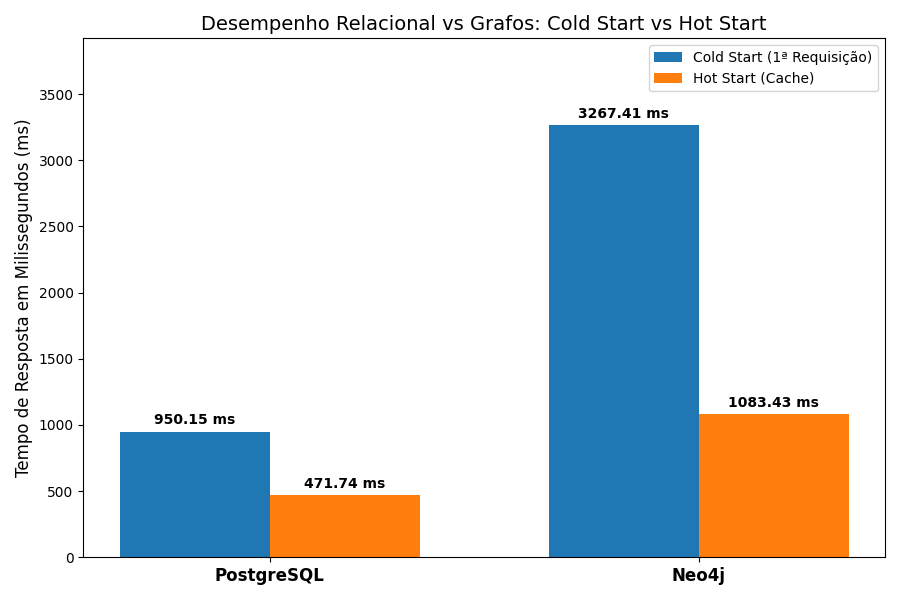
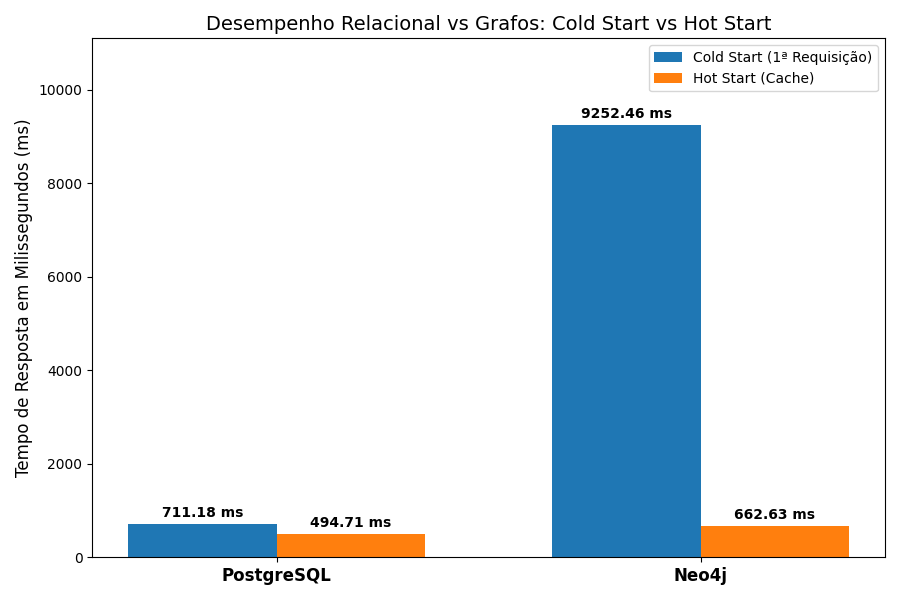
feat: conclusao dos testes experimentais e geracao dos tres graficos de desempenho

diff --git a/api/main.py b/api/main.py
@@ -37,21 +37,17 @@ def recomendar_postgres(user_id: int):
     with get_postgres_connection() as conn:
         result = conn.execute(query, {"user_id": user_id}).fetchall()
 
-        end_time = time.time()
+    end_time = time.time()
 
-        filmes_recomendados = [row[0] for row in result]
+    filmes_recomendados = [row[0] for row in result]
+    tempo_ms = round((end_time - start_time) * 1000, 2)
 
-        tempo_ms = round((end_time - start_time) * 1000, 2)
-
-        return {
-            "usuario_alvo": user_id,
-            "motor": "PostgreSQL",
-            "tempo_execucao_ms": tempo_ms,
-            "recomendacoes": filmes_recomendados,
-        }
-
-
-# nós ficam entre parenteses(u:User) e relacionamentos ficam entre colchetes-r[r:RATED]->
+    return {
+        "usuario_alvo": user_id,
+        "motor": "PostgreSQL",
+        "tempo_execucao_ms": tempo_ms,
+        "recomendacoes": filmes_recomendados,
+    }
 
 
 @app.get("/recomendar/neo4j/{user_id}")
@@ -77,32 +73,26 @@ def recomendar_neo4j(user_id: int):
         result = session.run(query, user_id=user_id)
         filmes_recomendados = [record["title"] for record in result]
 
-        end_time = time.time()
+    end_time = time.time()
 
-        tempo_ms = round((end_time - start_time) * 1000, 2)
+    tempo_ms = round((end_time - start_time) * 1000, 2)
 
-        return {
-            "usuario_alvo": user_id,
-            "motor": "Neo4j",
-            "tempo_execucao_ms": tempo_ms,
-            "recomendacoes": filmes_recomendados,
-        }
-
-#aqui segue uma ordem, em primeiro lugar encontra filmes que o usuario alvo avaliou acima/igual a 4.
-#em segundo lugar ele acha os vizinhos, cujo sao usuarios que gostaram dos mesmos filmes
-#em terceiro lugar pega os outros filmes que os vizinhos gostaram
-#em quarto lugar verifica que o usuario ainda nao viu esses filmes novos 
-#em quinto lugar calculr a forma de recomendacao baseada em quantos vizinhos gostaram
+    return {
+        "usuario_alvo": user_id,
+        "motor": "Neo4j",
+        "tempo_execucao_ms": tempo_ms,
+        "recomendacoes": filmes_recomendados,
+    }
 
 
 @app.get("/recomendar/colaborativo/neo4j/{user_id}")
-def recomendar_colaborativo_neo4j(user_id: int):
+def recomendar_colaborativo_neo4j(user_id: int, limite_vizinhos: int = 50):
     query = """
         MATCH (u1:User {userId: $user_id})-[r1:RATED]->(m:Movie)<-[r2:RATED]-(u2:User)
         WHERE r1.rating >= 4.0 AND r2.rating >= 4.0 AND u1 <> u2
         WITH u1, u2, count(m) AS forca_amizade
         ORDER BY forca_amizade DESC 
-        LIMIT 50
+        LIMIT $limite
         
         MATCH (u2)-[r3:RATED]->(m2:Movie)
         WHERE r3.rating >= 4.0 AND NOT (u1)-[:RATED]->(m2)
@@ -115,24 +105,22 @@ def recomendar_colaborativo_neo4j(user_id: int):
     start_time = time.time()
     
     with get_neo4j_session() as session:
-        result = session.run(query, user_id=user_id)
+        result = session.run(query, user_id=user_id, limite=limite_vizinhos)
         filmes_recomendados = [record["title"] for record in result]
         
     end_time = time.time()
-    tempo_ms = round((end_time - start_time) * 1000,2)
+    tempo_ms = round((end_time - start_time) * 1000, 2)
     
     return {
         "usuario_alvo": user_id,
-        "motor":"Neo4j (Colaborativo)",
+        "motor": "Neo4j (Colaborativo)",
         "tempo_execucao_ms": tempo_ms,
         "recomendacoes": filmes_recomendados
     }
-    
-    
-#Aqui ele segue a mesma premissa da busca de cima, so que com o postgres
+
 
 @app.get("/recomendar/colaborativo/postgres/{user_id}")
-def recomendar_colaborativo_postgres(user_id: int):
+def recomendar_colaborativo_postgres(user_id: int, limite_vizinhos: int = 50):
     query = text("""
         with FilmesAlvo AS (
             select "movieId" 
@@ -146,7 +134,7 @@ def recomendar_colaborativo_postgres(user_id: int):
             where a."userId" != :user_id and a.rating >= 4.0
             group by a."userId"
             order by forca_amizade desc
-            limit 50
+            limit :limite
         ),
         Recomendacoes AS (
             select a."movieId", COUNT(distinct a."userId") as score
@@ -160,23 +148,22 @@ def recomendar_colaborativo_postgres(user_id: int):
         from Recomendacoes r
         join filmes f ON r."movieId" = f."movieId"
         order by r.score desc
-        LIMIT 5;
+        limit 5;
     """)
     
     start_time = time.time()
     
     with get_postgres_connection() as conn:
-        result = conn.execute(query, {"user_id": user_id}).fetchall()
+        result = conn.execute(query, {"user_id": user_id, "limite": limite_vizinhos}).fetchall()
                              
     end_time = time.time()
     tempo_ms = round((end_time - start_time) * 1000, 2)                         
                              
     filmes_recomendados = [row[0] for row in result]                         
                              
-    return{
+    return {
         "usuario_alvo": user_id,
         "motor": "PostgresSQL (Colaborativo)",
         "tempo_execucao_ms": tempo_ms,
         "recomendacoes": filmes_recomendados
-    }                         
-    
+    }

diff --git a/gerar_grafico_escala.py b/gerar_grafico_escala.py
@@ -1,0 +1,84 @@
+import requests
+import concurrent.futures
+import matplotlib
+matplotlib.use('Agg')
+import matplotlib.pyplot as plt
+
+usuario_teste = 1
+requisicoes_por_cenario = 50
+cenarios_concorrencia = [5, 10, 20, 50] 
+
+def fazer_requisicao(url):
+    try:
+        resposta = requests.get(url, timeout=5)
+        if resposta.status_code == 200:
+            return resposta.json().get("tempo_execucao_ms", None)
+        return None
+    except:
+        return None
+
+def rodar_teste(url, concorrencia):
+    tempos = []
+    with concurrent.futures.ThreadPoolExecutor(max_workers=concorrencia) as executor:
+        resultados = executor.map(fazer_requisicao, [url] * requisicoes_por_cenario)
+    
+    for tempo in resultados:
+        if tempo is not None:
+            tempos.append(tempo)
+            
+    if not tempos:
+        return 5000.0 
+    
+    return round(sum(tempos) / len(tempos), 2)
+
+if __name__ == "__main__":
+    url_postgres = f"http://127.0.0.1:8000/recomendar/colaborativo/postgres/{usuario_teste}"
+    url_neo4j = f"http://127.0.0.1:8000/recomendar/colaborativo/neo4j/{usuario_teste}"
+    
+    medias_postgres = []
+    medias_neo4j = []
+    
+    print("Teste de Escalabilidade e Concorrência")
+    
+    try:
+        requests.get(url_postgres)
+        requests.get(url_neo4j)
+    except:
+        print("ERRO: API desligada")
+        exit()
+
+    for c in cenarios_concorrencia:
+        print(f"\nTestando com {c} usuários simultâneos")
+        
+        print(" -> Avaliando PostgreSQL")
+        media_pg = rodar_teste(url_postgres, c)
+        medias_postgres.append(media_pg)
+        
+        print(" -> Avaliando Neo4j")
+        media_neo = rodar_teste(url_neo4j, c)
+        medias_neo4j.append(media_neo)
+        
+        print(f"   [Médias] Postgres: {media_pg}ms | Neo4j: {media_neo}ms")
+
+    print("\nConstruindo o segundo gráfico de linhas")
+    
+    plt.figure(figsize=(10, 6))
+    
+    plt.plot(cenarios_concorrencia, medias_postgres, marker='o', label='PostgreSQL', color='#336699', linewidth=2.5)
+    plt.plot(cenarios_concorrencia, medias_neo4j, marker='s', label='Neo4j', color='#45b597', linewidth=2.5)
+    
+    for x, y in zip(cenarios_concorrencia, medias_postgres):
+        plt.text(x, y + 100, f"{y}ms", ha='center', va='bottom', color='#336699', fontweight='bold')
+    for x, y in zip(cenarios_concorrencia, medias_neo4j):
+        plt.text(x, y - 150, f"{y}ms", ha='center', va='top', color='#45b597', fontweight='bold')
+
+    plt.title('Escalabilidade: Tempo de Resposta vs Carga Concorrente', fontsize=14, fontweight='bold')
+    plt.xlabel('Número de Usuários Simultâneos (Concorrência)', fontsize=12)
+    plt.ylabel('Tempo Médio de Resposta (ms)', fontsize=12)
+    plt.xticks(cenarios_concorrencia)
+    plt.grid(True, linestyle='--', alpha=0.6)
+    plt.legend(fontsize=11)
+    
+    nome_arquivo = 'grafico_escalabilidade.png'
+    plt.savefig(nome_arquivo, bbox_inches='tight')
+    print(f"\n🏆 Sucesso! Segundo gráfico salvo como '{nome_arquivo}'!")

diff --git a/gerar_grafico_volume.py b/gerar_grafico_volume.py
@@ -1,0 +1,75 @@
+import requests
+import matplotlib
+matplotlib.use('Agg')
+import matplotlib.pyplot as plt
+
+def testar_por_volume(motor, base_url, limites_vizinhos):
+    print(f"\nAvaliando {motor} por volume de varredura")
+    tempos_medios = []
+    
+    for limite in limites_vizinhos:
+        url = f"{base_url}?limite_vizinhos={limite}"
+        print(f" -> Buscando com limite de {limite} vizinhos")
+        
+        tempos_requisicao = []
+        for _ in range(5):
+            try:
+                resposta = requests.get(url, timeout=10)
+                if resposta.status_code == 200:
+                    tempo = resposta.json().get("tempo_execucao_ms", None)
+                    if tempo is not None:
+                        tempos_requisicao.append(tempo)
+            except:
+                pass
+                
+        if tempos_requisicao:
+            media = round(sum(tempos_requisicao) / len(tempos_requisicao), 2)
+        else:
+            media = 0.0
+            
+        print(f"    Resultado para {limite} vizinhos: {media} ms")
+        tempos_medios.append(media)
+        
+    return tempos_medios
+
+if __name__ == "__main__":
+    usuario_teste = 1
+    limites_vizinhos = [10, 20, 50, 100]
+    
+    url_postgres = f"http://127.0.0.1:8000/recomendar/colaborativo/postgres/{usuario_teste}"
+    url_neo4j = f"http://127.0.0.1:8000/recomendar/colaborativo/neo4j/{usuario_teste}"
+    
+    print("Iniciando Teste de Volume e Complexidade de Varredura")
+    
+    try:
+        requests.get(f"{url_postgres}?limite_vizinhos=10")
+        requests.get(f"{url_neo4j}?limite_vizinhos=10")
+    except:
+        print("Erro: A API esta desligada")
+        exit()
+        
+    medias_pg = testar_por_volume("PostgreSQL", url_postgres, limites_vizinhos)
+    medias_neo = testar_por_volume("Neo4j", url_neo4j, limites_vizinhos)
+    
+    print("\nConstruindo o terceiro grafico de analise")
+    
+    plt.figure(figsize=(10, 6))
+    
+    plt.plot(limites_vizinhos, medias_pg, marker='o', label='PostgreSQL', color='#336699', linewidth=2.5)
+    plt.plot(limites_vizinhos, medias_neo, marker='s', label='Neo4j', color='#45b597', linewidth=2.5)
+    
+    for x, y in zip(limites_vizinhos, medias_pg):
+        plt.text(x, y + 50, f"{y}ms", ha='center', va='bottom', color='#336699', fontweight='bold')
+    for x, y in zip(limites_vizinhos, medias_neo):
+        plt.text(x, y - 100, f"{y}ms", ha='center', va='top', color='#45b597', fontweight='bold')
+        
+    plt.title('Complexidade: Tempo de Resposta vs Volume de Vizinhos Varridos', fontsize=14, fontweight='bold')
+    plt.xlabel('Volume de Vizinhos Considerados no Algoritmo (Limite)', fontsize=12)
+    plt.ylabel('Tempo Medio de Resposta (ms)', fontsize=12)
+    plt.xticks(limites_vizinhos)
+    plt.grid(True, linestyle='--', alpha=0.6)
+    plt.legend(fontsize=11)
+    
+    nome_arquivo = 'grafico_volume.png'
+    plt.savefig(nome_arquivo, bbox_inches='tight')
+    print(f"\nSucesso! Terceiro grafico salvo como '{nome_arquivo}'!")
